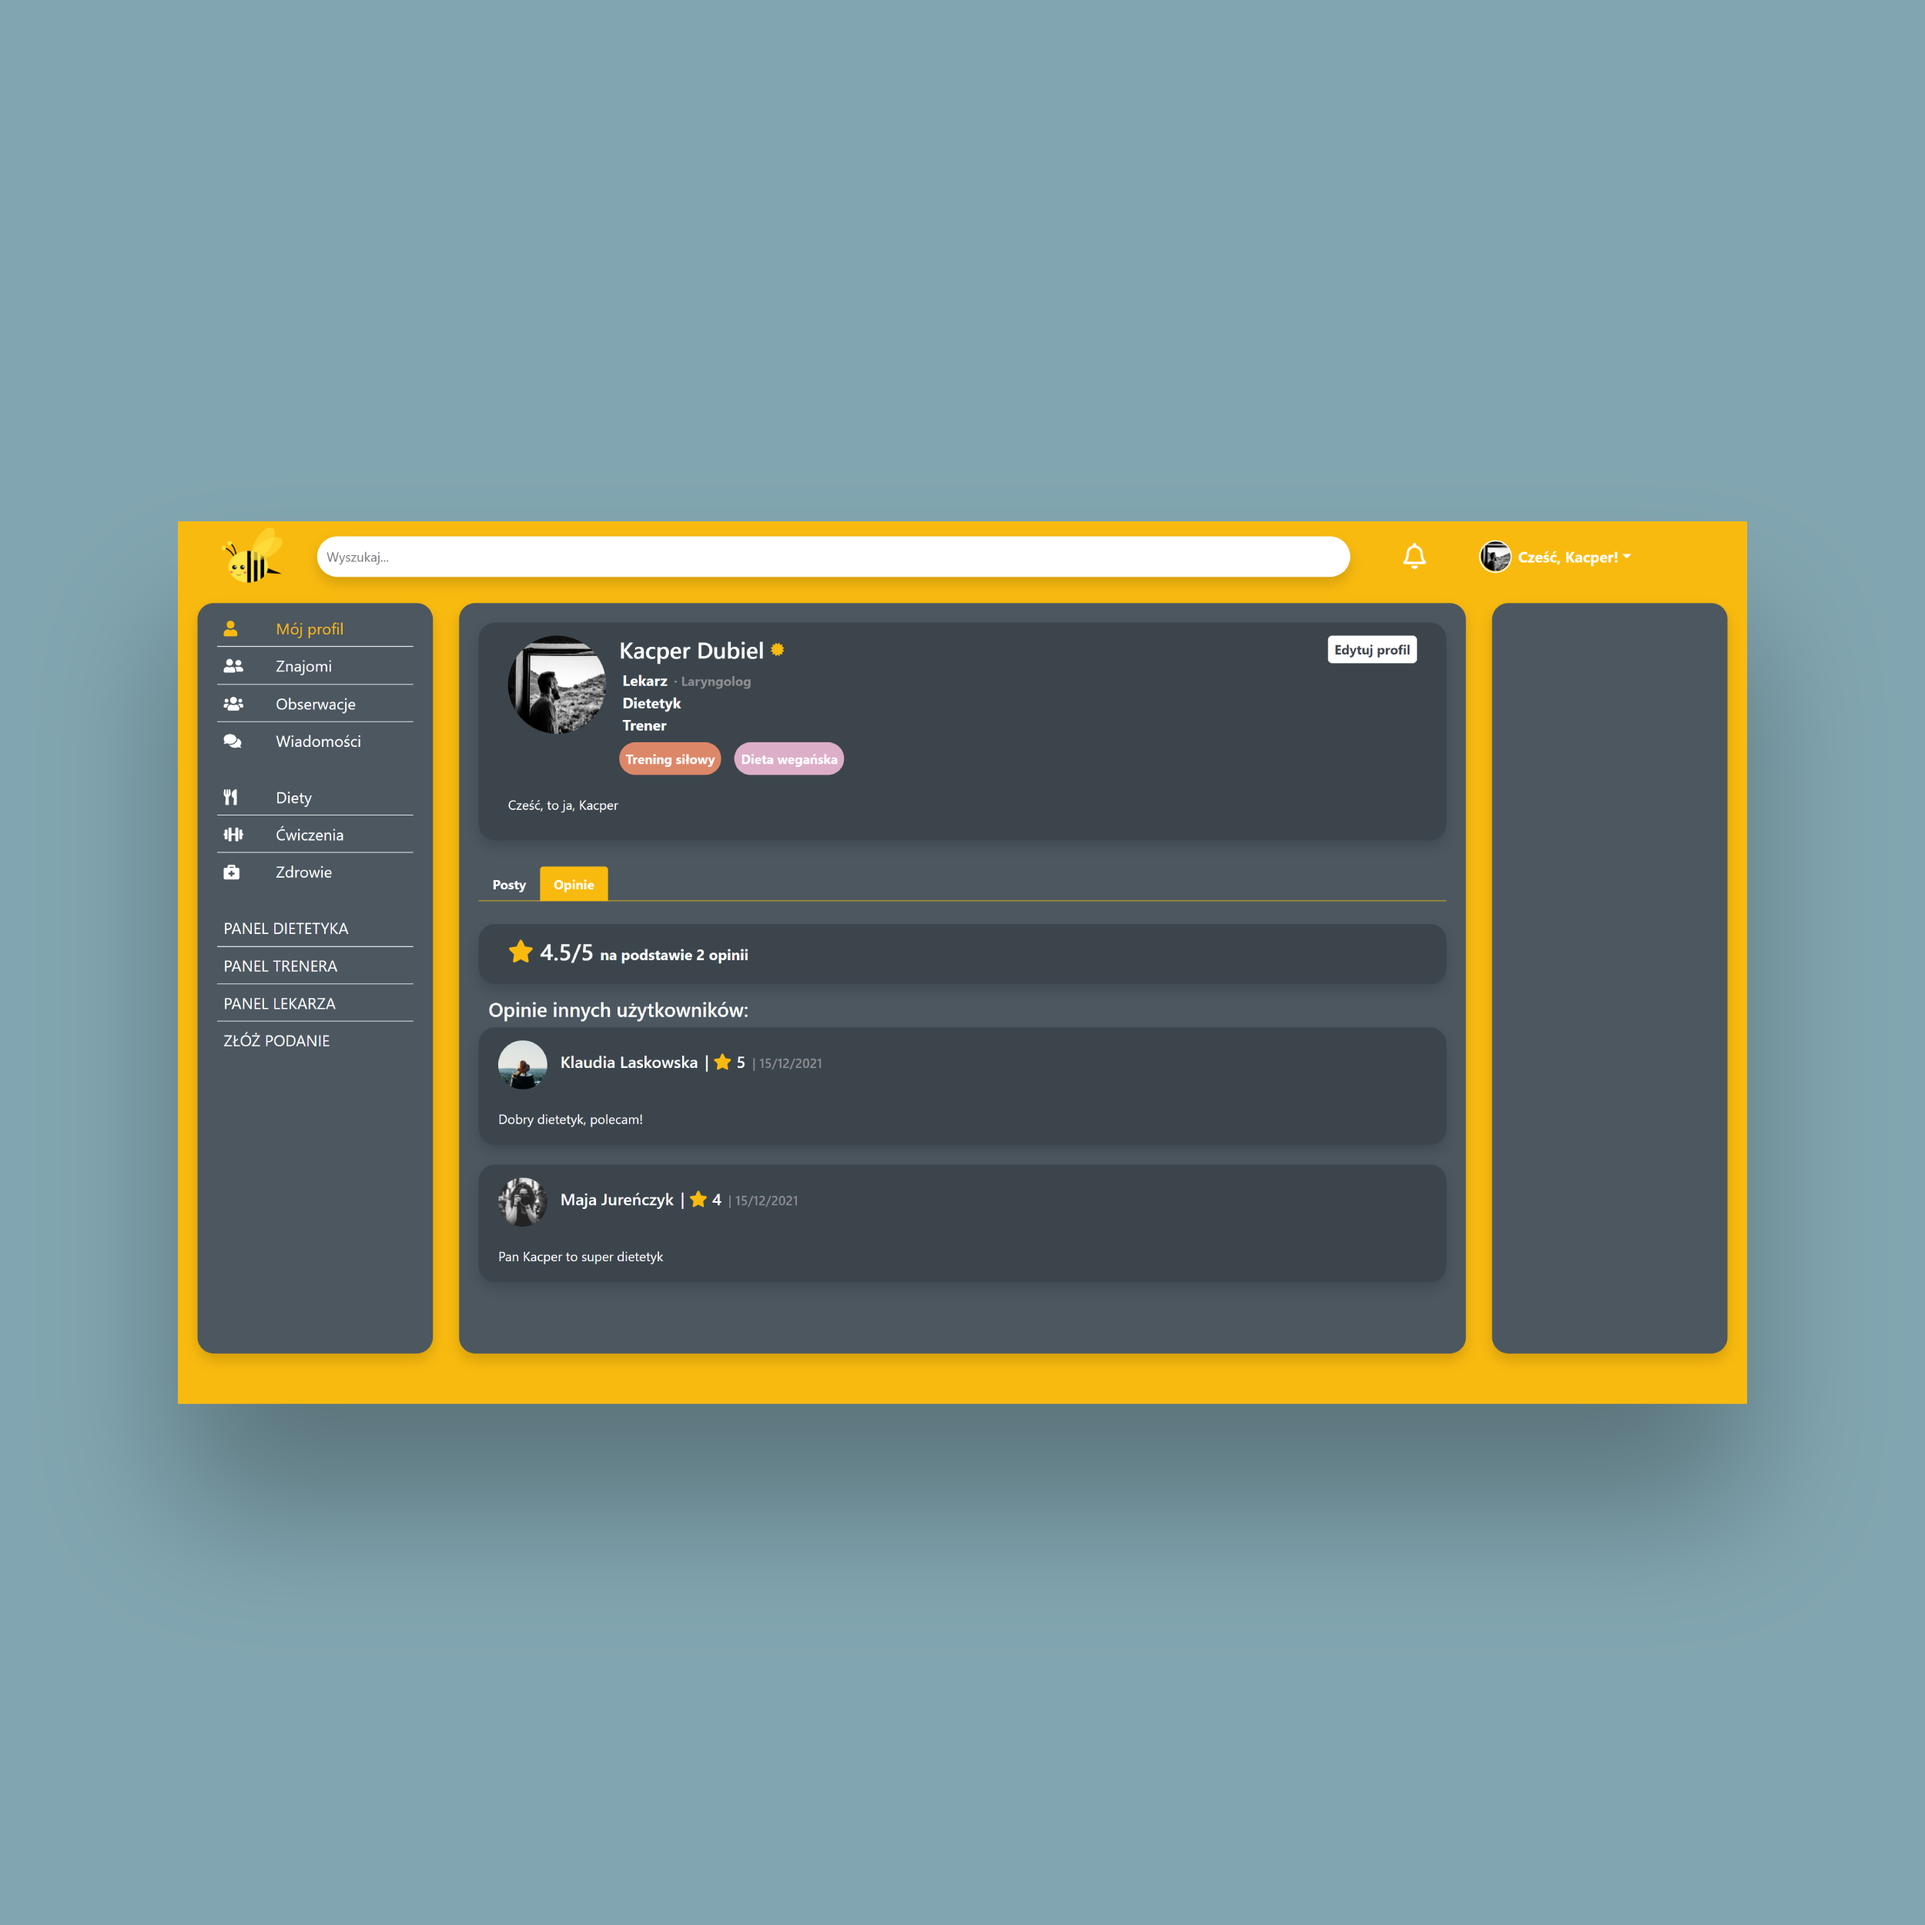
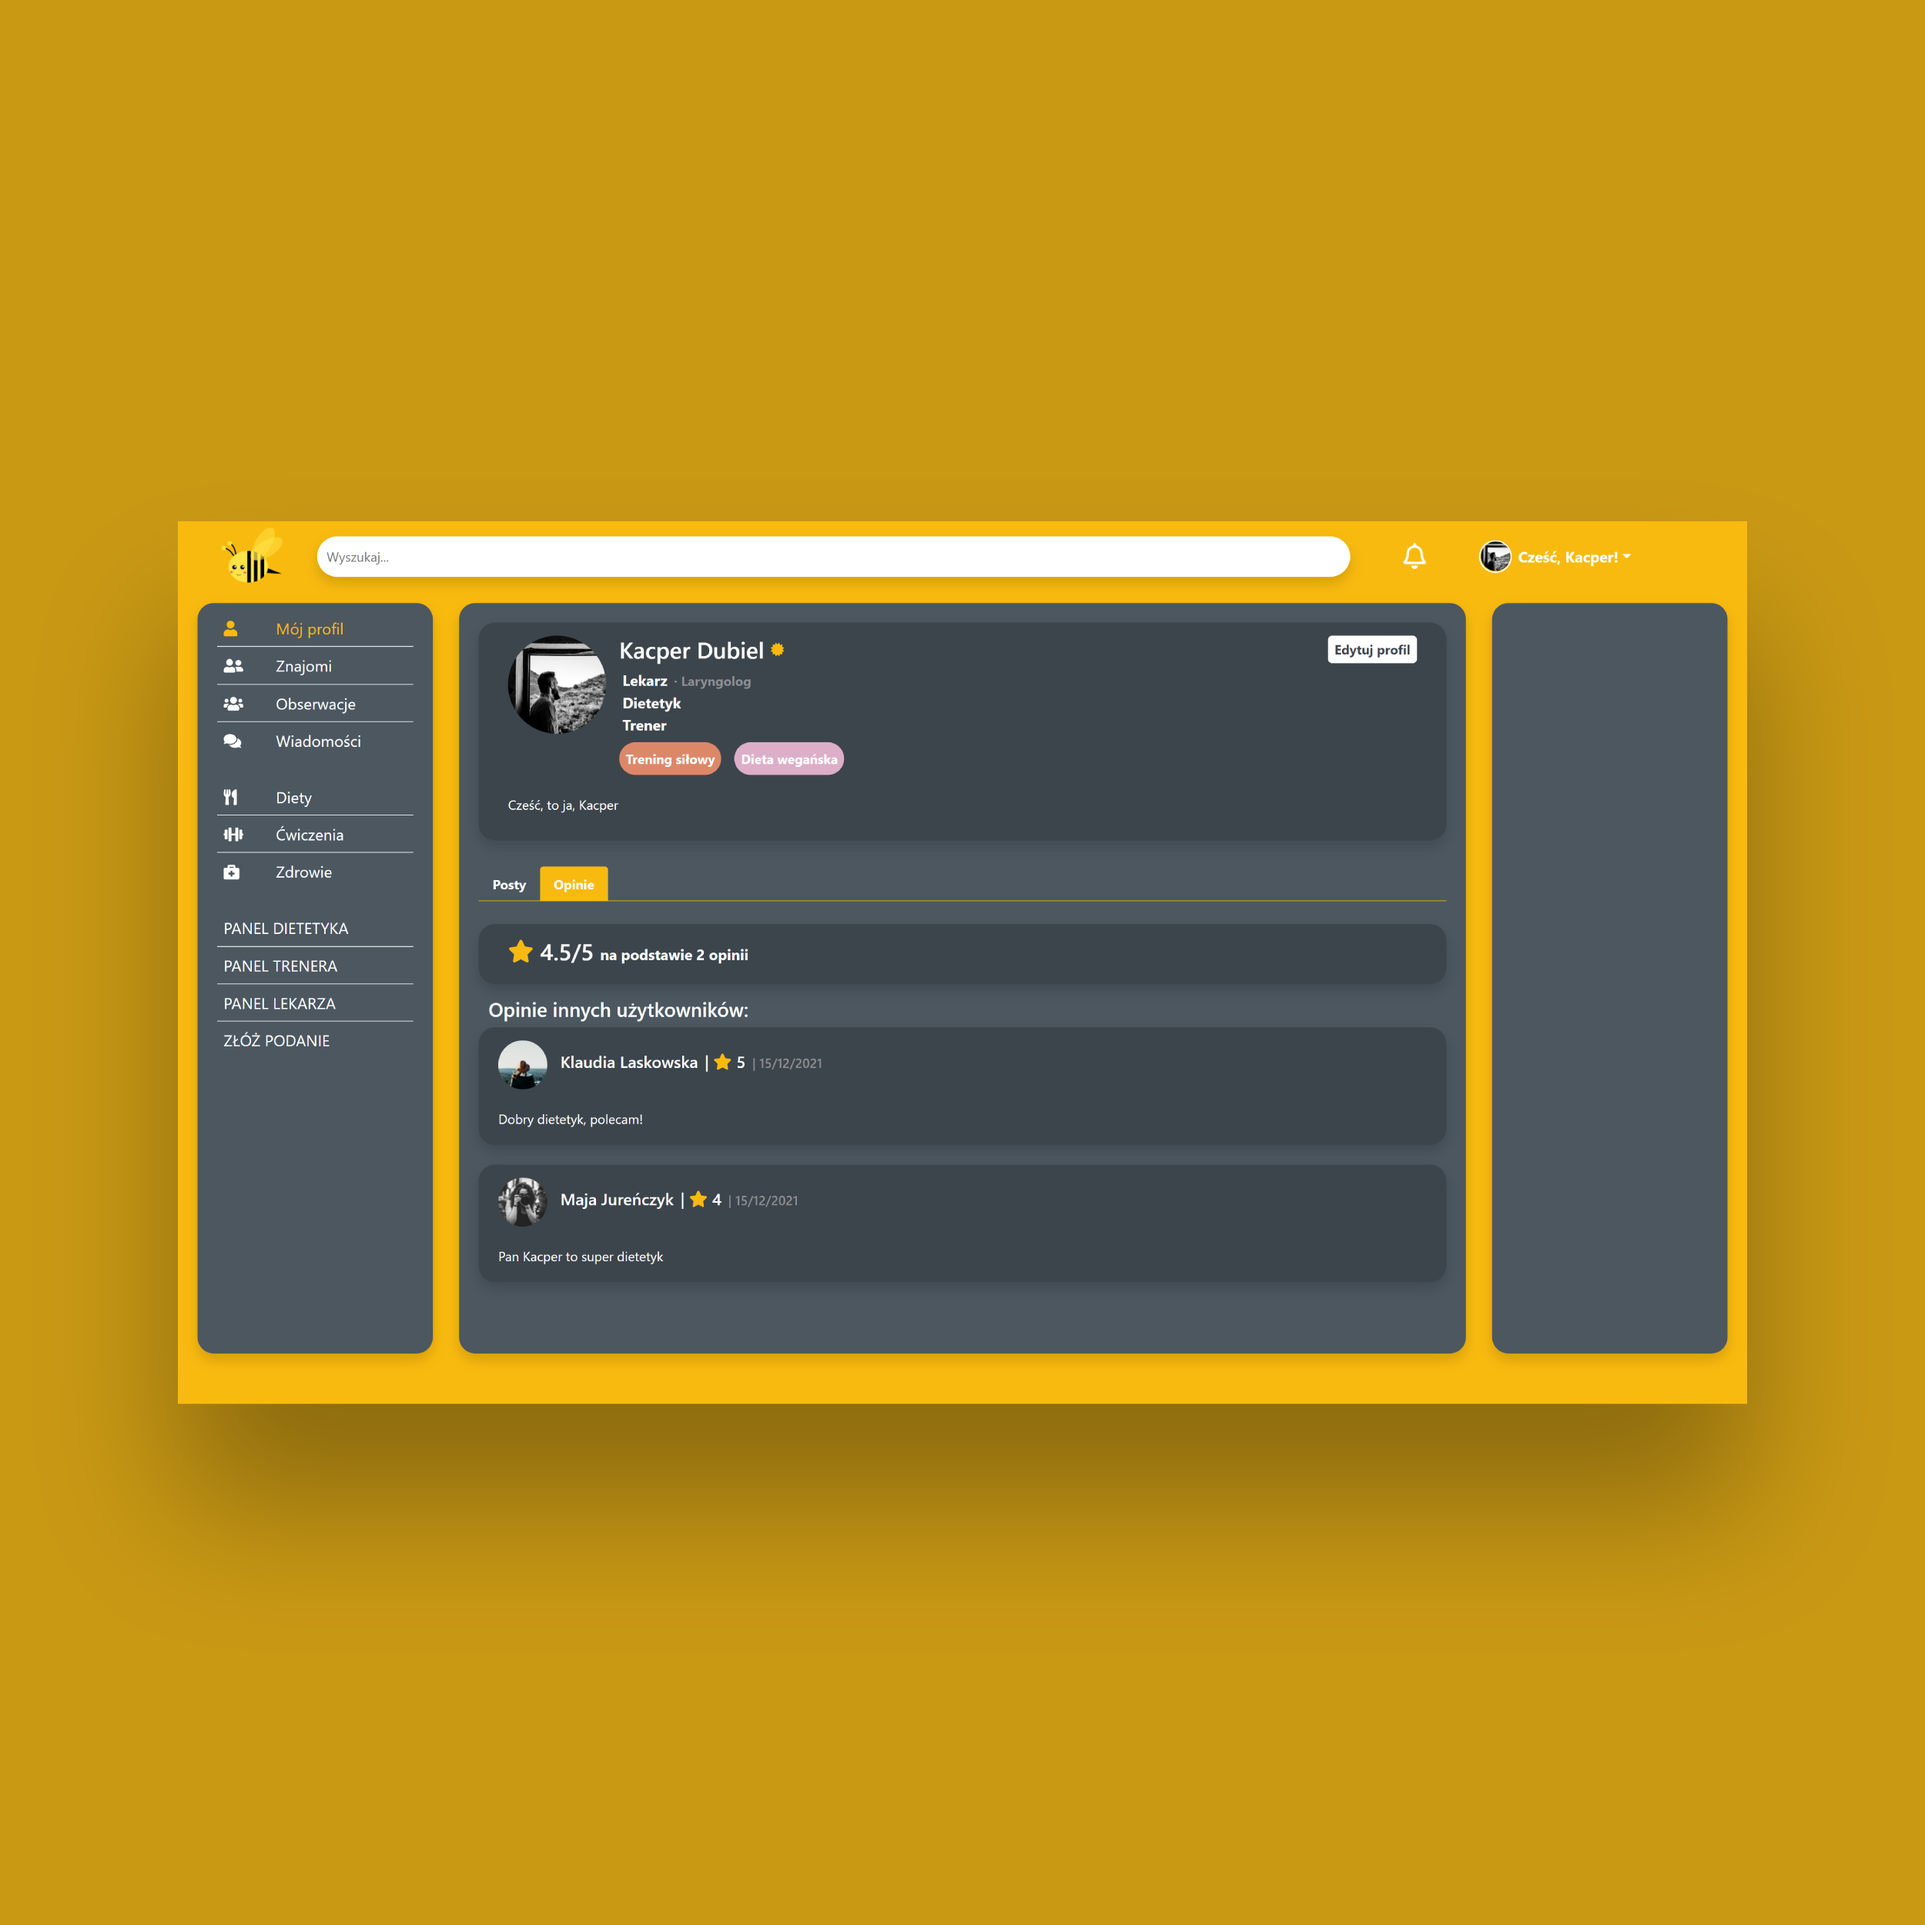
Add rent4events, fix project colors

diff --git a/src/components/MainPage/Projects.vue b/src/components/MainPage/Projects.vue
@@ -7,11 +7,11 @@
 
         </div>
         <div class="row justify-content-center justify-content-md-start mb-3 gy-3">
-            <div class="col-10 col-md-6 col-lg-4" v-for="project in projects" :key="project.projectId">
+            <div class="col-11 col-md-6 col-lg-4" v-for="project in projects" :key="project.projectId">
                 <project-card :project="project" class="my-3 px-0"/>
             </div>
         </div>
-        <div class="row mt-5">
+        <div class="row mt-4 mt-sm-5">
             <div class="col d-flex justify-content-center">
                 <p class="d-inline">
                     <span class="align-middle">{{ $t("projects.info") }}</span>
@@ -37,9 +37,10 @@ export default {
             projects: [
                 {
                     projectId: 1,
-                    pictureSource: 'tba.png',
+                    pictureSource: 'rent4events.png',
                     title: 'rent4events',
-                    year: 2022
+                    year: 2022,
+                    about: this.$i18n.t('rent4events.about'),
                 },
                 {
                     projectId: 2,
@@ -50,17 +51,11 @@ export default {
                 },
                 {
                     projectId: 3,
-                    pictureSource: 'wellbeeing-temp.png',
+                    pictureSource: 'wellbeeing.png',
                     title: 'WellBeeing',
                     year: 2021,
                     about: this.$t('wellbeeing.about'),
-                },
-                // {
-                //     projectId: 4,
-                //     pictureSource: 'soon.png',
-                //     title: 'More projects soon',
-                //     year: ''
-                // }
+                }
             ]
         }
     },
@@ -71,6 +66,7 @@ export default {
     },
     watch: {
         language() {
+            this.projects[0].about = this.$i18n.t('rent4events.about');
             this.projects[1].about = this.$i18n.t('planszappka.about');
             this.projects[2].about = this.$i18n.t('wellbeeing.about');
         }

diff --git a/src/main.js b/src/main.js
@@ -60,6 +60,9 @@ const messages = {
             messageInput: 'Message',
             send: 'Send'
         },
+        rent4events: {
+            about: 'Web application supporting management of event rental company.',
+        },
         planszappka: {
             about: 'UX research and prototype of a mobile app uniting people who play board games.',
             heading: {
@@ -559,6 +562,9 @@ const messages = {
             message: 'Wiadomość:',
             messageInput: 'Wiadomość',
             send: 'Wyślij'
+        },
+        rent4events: {
+            about: 'Aplikacja webowa wspomagająca zarządzanie wypożyczalnią eventową.',
         },
         planszappka: {
             about: 'Badania UX i prototyp aplikacji mobilnej zrzeszającej osoby grające w gry planszowe.',

diff --git a/src/assets/colors.css b/src/assets/colors.css
@@ -15,6 +15,9 @@
     /*--WELLBEEING: #82a6b1;*/
     /*--WELLBEEING-LIGHT: #b1c8ce;*/
 
-    --WELLBEEING: #5E4352;
-    --WELLBEEING-LIGHT: #765466;
+    /*--WELLBEEING: #5E4352;*/
+    /*--WELLBEEING-LIGHT: #765466;*/
+
+    --WELLBEEING: #C99914;
+    --WELLBEEING-LIGHT: #eab72a;
 }

diff --git a/src/views/WellBeeing.vue b/src/views/WellBeeing.vue
@@ -344,7 +344,7 @@ span {
 }
 
 .github-heading-link {
-    color: #FFDD00;
+    color: #655a7c;
     text-decoration: none;
 }
 
